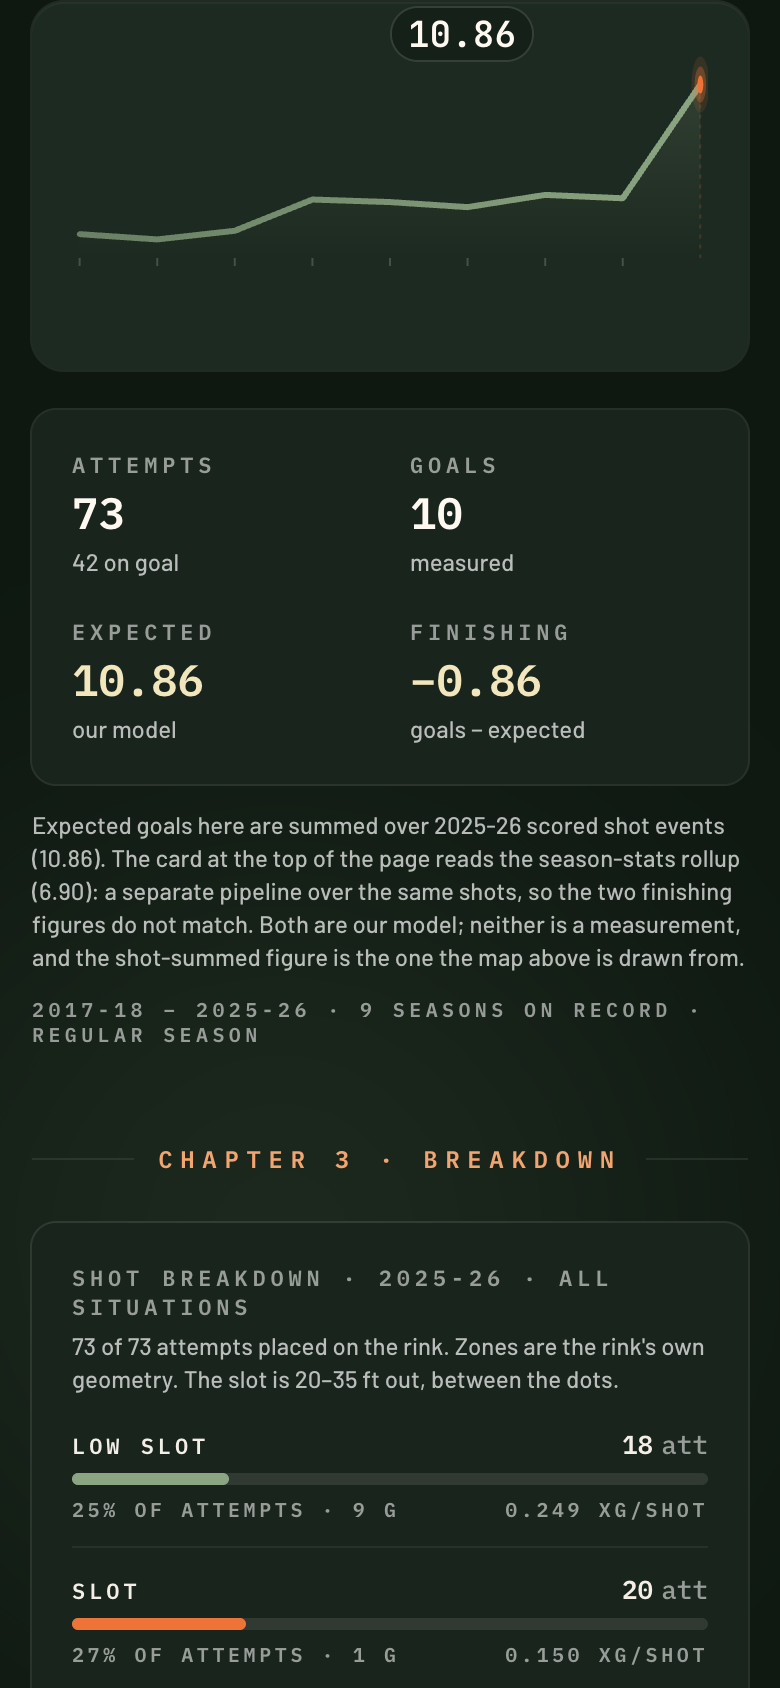
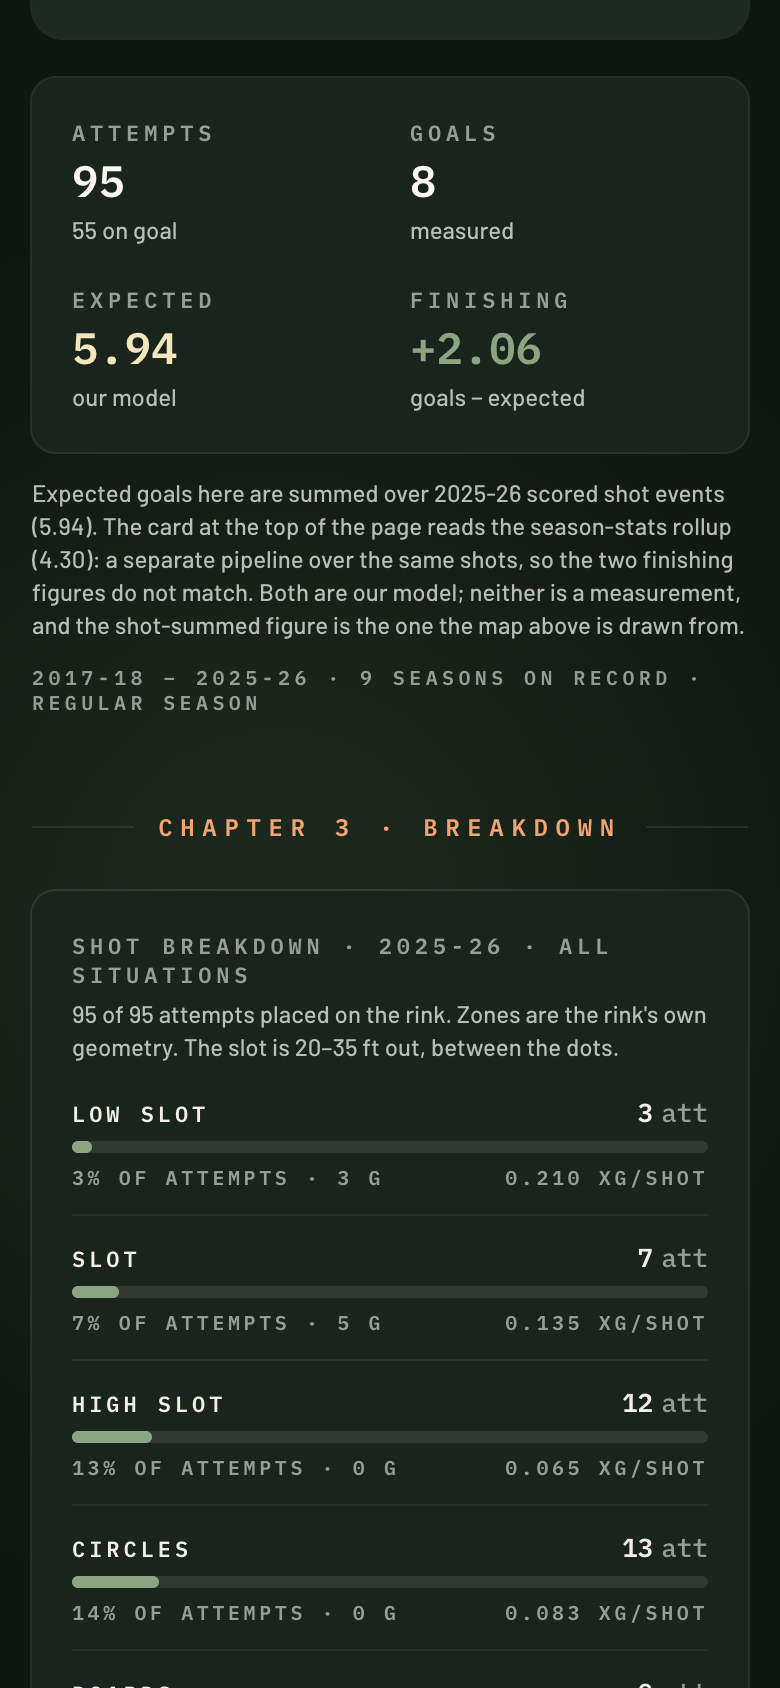
fix(web): isolate product landing from native builds

diff --git a/apps/web/src/components/citrus2/Homepage.tsx b/apps/web/src/components/citrus2/Homepage.tsx
@@ -5,6 +5,7 @@
  * Edit copy / structure here once and both routes update together.
  */
 
+import { useState } from 'react';
 import { Link } from 'react-router-dom';
 import { ArrowRight } from 'lucide-react';
 import Navbar from '@/components/Navbar';
@@ -49,35 +50,66 @@ import type { AccentName } from './tokens';
 // public NHL identity where available, generated demo values, and no league or
 // account data. They show the product in use, not a fabricated dashboard.
 function ProductVisual() {
+  const [screen, setScreen] = useState<'overview' | 'breakdown'>('overview');
+  const isOverview = screen === 'overview';
+  const activeScreen = isOverview
+    ? {
+        src: '/product-demo/player-dashboard-demo-390.png',
+        alt: 'Citrus player dashboard on mobile, showing a player decision view, expected-goals context, and shot profile.',
+        label: 'Player decision view',
+        detail: 'See the context behind a start-or-sit call.',
+      }
+    : {
+        src: '/product-demo/player-analysis-demo-390.png',
+        alt: 'Citrus player analysis on mobile, showing expected goals, finishing context, and a shot breakdown.',
+        label: 'Shot breakdown',
+        detail: 'Turn a box score into the shots that created it.',
+      };
+
   return (
-    <figure className="relative mx-auto h-[500px] w-full max-w-[520px] overflow-hidden rounded-[28px] border border-white/10 bg-[radial-gradient(circle_at_75%_12%,rgba(255,107,26,0.25),transparent_38%),linear-gradient(135deg,#101c14,#07110b)] shadow-[0_24px_60px_-20px_rgba(0,0,0,0.5)] sm:h-[540px]">
+    <figure className="relative mx-auto h-[470px] w-full max-w-[520px] overflow-hidden rounded-[28px] border border-white/10 bg-[radial-gradient(circle_at_75%_12%,rgba(255,107,26,0.25),transparent_38%),linear-gradient(135deg,#101c14,#07110b)] shadow-[0_24px_60px_-20px_rgba(0,0,0,0.5)] sm:h-[500px]">
       <div className="absolute left-5 top-5 z-10 rounded-md border border-white/10 bg-black/45 px-3 py-2 backdrop-blur-sm">
         <p className="font-plex text-[10px] font-semibold uppercase tracking-[0.16em] text-pressbox-orange-soft">Actual product screens</p>
         <p className="mt-0.5 font-barlow text-xs text-pressbox-text/70">Demo data · mobile layout</p>
       </div>
-      <div className="absolute -left-7 top-[84px] w-[255px] overflow-hidden rounded-[25px] border-[5px] border-[#07110b] bg-[#07110b] shadow-[0_24px_36px_-12px_rgba(0,0,0,0.8)] sm:left-7 sm:w-[280px]">
+      <div className="absolute left-1/2 top-[92px] w-[250px] -translate-x-1/2 overflow-hidden rounded-[25px] border-[5px] border-[#07110b] bg-[#07110b] shadow-[0_24px_36px_-12px_rgba(0,0,0,0.8)] transition-transform duration-300 motion-reduce:transition-none sm:top-[96px] sm:w-[276px]">
         <img
-          src="/product-demo/player-dashboard-demo-390.png"
-          alt="Citrus player dashboard on mobile, showing a player decision view, expected-goals context, and shot profile."
+          key={activeScreen.src}
+          src={activeScreen.src}
+          alt={activeScreen.alt}
           width="390"
           height="844"
-          className="block h-auto w-full"
+          className="block h-auto w-full animate-fade-in motion-reduce:animate-none"
           fetchPriority="high"
         />
       </div>
-      <div className="absolute -right-12 bottom-[-16px] w-[190px] overflow-hidden rounded-[22px] border-4 border-[#07110b] bg-[#07110b] shadow-[0_20px_36px_-12px_rgba(0,0,0,0.8)] sm:right-4 sm:w-[210px]">
-        <img
-          src="/product-demo/player-analysis-demo-390.png"
-          alt="Citrus player analysis on mobile, showing expected goals, finishing context, and a shot breakdown."
-          width="390"
-          height="844"
-          className="block h-auto w-full"
-          loading="lazy"
-        />
+      <div className="absolute bottom-4 left-1/2 z-10 w-[calc(100%-2.5rem)] -translate-x-1/2 rounded-xl border border-white/10 bg-[#0a150d]/90 p-2.5 backdrop-blur-sm sm:w-[calc(100%-3rem)]">
+        <div className="grid grid-cols-2 gap-1 rounded-lg bg-white/[0.06] p-1" role="tablist" aria-label="Explore Citrus player screens">
+          {([
+            ['overview', 'Player view'],
+            ['breakdown', 'Shot breakdown'],
+          ] as const).map(([value, label]) => (
+            <button
+              key={value}
+              type="button"
+              role="tab"
+              aria-selected={screen === value}
+              aria-controls="product-screen-preview"
+              onClick={() => setScreen(value)}
+              className={`rounded-md px-2 py-2 font-plex text-[10px] font-semibold uppercase tracking-[0.08em] transition-colors motion-reduce:transition-none ${
+                screen === value
+                  ? 'bg-pressbox-orange text-pressbox-orange-ink'
+                  : 'text-pressbox-text/65 hover:bg-white/[0.08] hover:text-pressbox-text'
+              }`}
+            >
+              {label}
+            </button>
+          ))}
+        </div>
+        <p id="product-screen-preview" className="mt-2 px-1 font-barlow text-xs text-pressbox-text/70">
+          <span className="font-semibold text-pressbox-text">{activeScreen.label}.</span> {activeScreen.detail}
+        </p>
       </div>
-      <figcaption className="absolute bottom-4 left-5 right-[126px] z-10 font-plex text-[10px] font-semibold uppercase tracking-[0.12em] text-pressbox-text/60 sm:right-[145px]">
-        Decision context, then the slate
-      </figcaption>
     </figure>
   );
 }
@@ -94,7 +126,7 @@ function getHeroSlides(): HeroSlide[] {
   return [
     {
       id: 'fantasy',
-      eyebrow: 'Season-long fantasy hockey · Free · No card required',
+      eyebrow: '',
       headline: { lead: 'Fantasy hockey', accent: 'for people who watch hockey.' },
       sub: 'Set up a season-long league with your friends, make lineup decisions with expected-goals context, and follow the scores as games unfold. There are no entry fees and no payouts. It is just hockey.',
       primary: { label: 'Create a league', to: '/create-league' },
@@ -305,7 +337,7 @@ export function Homepage() {
         />
         <div className="flex gap-4 overflow-x-auto pb-4 -mx-6 px-6 snap-x snap-mandatory">
           {GAME_MODES.map((g) => (
-            <GameModeCard key={g.label} {...g} />
+            <GameModeCard key={g.label} {...g} landingCta />
           ))}
         </div>
       </section>

diff --git a/apps/web/src/components/citrus2/RotatingHero.tsx b/apps/web/src/components/citrus2/RotatingHero.tsx
@@ -1,11 +1,10 @@
 import { useState, useEffect, type ReactNode } from 'react';
 import { Link } from 'react-router-dom';
 import { ArrowRight } from 'lucide-react';
-import { LivePulse } from './LivePulse';
 
 export interface HeroSlide {
   id: string;
-  eyebrow: string;
+  eyebrow?: string;
   /** Headline rendered as: lead + accent (orange) + optional tail */
   headline: { lead: string; accent: string; tail?: string };
   sub: string;
@@ -43,18 +42,19 @@ export function RotatingHero({
     <section
       onMouseEnter={() => setPaused(true)}
       onMouseLeave={() => setPaused(false)}
-      className="relative max-w-[1280px] mx-auto px-4 sm:px-6 pt-8 sm:pt-12 lg:pt-16 pb-12"
+      className="relative max-w-[1280px] mx-auto px-4 sm:px-6 pt-8 sm:pt-12 lg:pt-10 pb-8"
     >
-      <div className="grid grid-cols-1 lg:grid-cols-2 gap-8 sm:gap-12 lg:gap-16 items-center min-h-[400px] sm:min-h-[480px]">
+      <div className="grid grid-cols-1 lg:grid-cols-2 gap-8 sm:gap-12 lg:gap-16 items-center min-h-[400px] sm:min-h-[480px] lg:min-h-0">
         {/* LEFT — copy. key forces re-mount so animate-fade-in re-fires per slide */}
         <div key={`copy-${active}`} className="relative z-10 animate-fade-in">
-          <div className="inline-flex items-center gap-2 mb-5 sm:mb-7 px-3 py-1.5 rounded-md bg-pressbox-orange/15 ring-1 ring-pressbox-orange/30">
-            <LivePulse size="xs" />
-            <span className="font-plex font-semibold text-[11px] tracking-[0.16em] uppercase text-pressbox-orange-soft leading-none">
-              {slide.eyebrow}
-            </span>
-          </div>
-          <h1 className="font-condensed font-extrabold uppercase text-[3rem] sm:text-[4rem] md:text-[4.75rem] lg:text-[6rem] leading-[0.92] tracking-[-0.01em] text-pressbox-text mb-5 sm:mb-6">
+          {slide.eyebrow && (
+            <div className="inline-flex items-center gap-2 mb-5 sm:mb-7 px-3 py-1.5 rounded-md bg-pressbox-orange/15 ring-1 ring-pressbox-orange/30">
+              <span className="font-plex font-semibold text-[11px] tracking-[0.16em] uppercase text-pressbox-orange-soft leading-none">
+                {slide.eyebrow}
+              </span>
+            </div>
+          )}
+          <h1 className="font-condensed font-extrabold uppercase text-[3rem] sm:text-[4rem] md:text-[4.75rem] lg:text-[4.75rem] leading-[0.92] tracking-[-0.01em] text-pressbox-text mb-5 sm:mb-6">
             {slide.headline.lead}
             <br />
             <span className="font-condensed text-pressbox-orange">{slide.headline.accent}</span>

diff --git a/apps/web/src/components/citrus2/GameModeCard.tsx b/apps/web/src/components/citrus2/GameModeCard.tsx
@@ -21,6 +21,7 @@ export function GameModeCard({
   to,
   ctaLabel = 'Play Now',
   scene,
+  landingCta = false,
 }: {
   label: string;
   sub: string;
@@ -31,9 +32,16 @@ export function GameModeCard({
   ctaLabel?: string;
   /** Optional path to a hero scene image (under /public). Sleeper-style card. */
   scene?: string;
+  /** Website storefront only; native-accessible feature pages retain existing CTA markup. */
+  landingCta?: boolean;
 }) {
   const a = ACCENT_CLASSES[accent];
   const ctaClass = 'mt-auto w-full inline-flex items-center justify-center gap-1.5 bg-pressbox-orange text-pressbox-orange-ink px-4 h-11 rounded-md font-condensed font-bold uppercase tracking-[0.06em] text-[15px] hover:bg-pastel-orange-soft transition-all duration-200 active:scale-95 group/btn focus-visible:outline-none focus-visible:ring-2 focus-visible:ring-pastel-orange-soft focus-visible:ring-offset-2 focus-visible:ring-offset-pastel-surface';
+  const button = (
+    <button className="mt-auto w-full inline-flex items-center justify-center gap-1.5 bg-pressbox-orange text-pressbox-orange-ink px-4 h-11 rounded-md font-condensed font-bold uppercase tracking-[0.06em] text-[15px] hover:bg-pastel-orange-soft transition-all duration-200 active:scale-95 group/btn">
+      {ctaLabel} <ArrowRight className="w-3.5 h-3.5 group-hover/btn:translate-x-0.5 transition-transform" strokeWidth={2.5} />
+    </button>
+  );
 
   return (
     <div className="flex-shrink-0 w-[240px] sm:w-[260px] snap-start">
@@ -82,15 +90,15 @@ export function GameModeCard({
             <p className="font-barlow font-normal text-[14px] text-pressbox-text/70 leading-snug mb-4 flex-grow min-h-[80px] line-clamp-4">
               {sub}
             </p>
-            {to ? (
+            {landingCta && to ? (
               <Link to={to} className={ctaClass} aria-label={`${ctaLabel}: ${label}`}>
                 {ctaLabel} <ArrowRight className="w-3.5 h-3.5 group-hover/btn:translate-x-0.5 transition-transform" strokeWidth={2.5} />
               </Link>
-            ) : (
+            ) : landingCta ? (
               <span className={ctaClass} aria-hidden="true">
                 {ctaLabel} <ArrowRight className="w-3.5 h-3.5" strokeWidth={2.5} />
               </span>
-            )}
+            ) : to ? <Link to={to} className="contents">{button}</Link> : button}
           </div>
         </article>
       </GlowCard>

diff --git a/apps/web/src/pages/Index.tsx b/apps/web/src/pages/Index.tsx
@@ -1,6 +1,6 @@
 import { Capacitor } from '@capacitor/core';
+import { lazy, Suspense } from 'react';
 import { logger } from '@/utils/logger';
-import { Homepage } from '@/components/citrus2';
 import { useAuth } from '@/contexts/AuthContext';
 import { useLeague } from '@/contexts/LeagueContext';
 import { useIsMobile } from '@/hooks/useIsMobile';
@@ -10,6 +10,16 @@ import { Navigate, useLocation } from 'react-router-dom';
 import LoadingScreen from '@/components/LoadingScreen';
 import { isLeagueVisitFresh, markLeagueVisit } from '@/lib/leagueStickiness';
 import { leagueOpenDestination, getLeagueTypeFromSettings } from '@/utils/leagueTypeHelpers';
+
+// The storefront is a website-only surface. Keep its product captures and
+// marketing code out of a Capacitor build entirely, rather than merely
+// deciding not to render it after it has been bundled into the app.
+const WebHomepage = import.meta.env.VITE_NATIVE === '1'
+  ? null
+  : lazy(async () => {
+      const module = await import('@/components/citrus2/Homepage');
+      return { default: module.Homepage };
+    });
 
 /**
  * Production homepage. Renders the Citrus 2.0 Homepage composition (dark
@@ -104,7 +114,12 @@ const Index = () => {
   }
 
   try {
-    return <Homepage />;
+    if (!WebHomepage) return null;
+    return (
+      <Suspense fallback={<div style={{ minHeight: '100vh', background: '#07110b' }} aria-busy="true" />}>
+        <WebHomepage />
+      </Suspense>
+    );
   } catch (error) {
     logger.error('❌ Error in Index component:', error);
     return (

diff --git a/apps/web/src/pages/__tests__/Index.appOpenFlow.test.tsx b/apps/web/src/pages/__tests__/Index.appOpenFlow.test.tsx
@@ -27,7 +27,7 @@ vi.mock('@/contexts/LeagueContext', () => ({ useLeague: () => mockLeague() }));
 vi.mock('@/hooks/useIsMobile', () => ({ useIsMobile: () => true }));
 vi.mock('@/hooks/useSeasonStatus', () => ({ useSeasonStatus: () => ({ status: { isDormant: false, phase: 'regular' } }) }));
 vi.mock('@capacitor/core', () => ({ Capacitor: { isNativePlatform: () => false } }));
-vi.mock('@/components/citrus2', () => ({ Homepage: () => <div data-testid="storefront" /> }));
+vi.mock('@/components/citrus2/Homepage', () => ({ Homepage: () => <div data-testid="storefront" /> }));
 vi.mock('@/components/home/PressBoxHome', () => ({ PressBoxHome: () => <div data-testid="league-list" /> }));
 vi.mock('@/components/LoadingScreen', () => ({ default: () => <div data-testid="loading" /> }));
 vi.mock('@/utils/logger', () => ({ logger: { error: vi.fn() } }));
@@ -124,10 +124,10 @@ describe('the app open flow', () => {
     expect(screen.queryByTestId('storefront')).toBeNull();
   });
 
-  it('keeps the storefront for a signed-out visitor', () => {
+  it('keeps the storefront for a signed-out visitor', async () => {
     mockAuth.mockReturnValue({ user: null, loading: false });
     renderAt('/');
-    expect(screen.getByTestId('storefront')).toBeInTheDocument();
+    expect(await screen.findByTestId('storefront')).toBeInTheDocument();
   });
 
   it('one account\'s stamp does not pin another', () => {

diff --git a/apps/web/src/pages/PreviewClone.tsx b/apps/web/src/pages/PreviewClone.tsx
@@ -1,9 +1,14 @@
-// Imported from the module, not from the citrus2 barrel. Homepage.tsx itself
-// imports its siblings through the barrel, so barrel -> Homepage -> barrel is a
-// cycle, and this page is lazy-loaded into its own chunk: Rollup warned that
-// re-exporting Homepage through the cyclic barrel across chunks can break
-// execution order (CYCLIC_CROSS_CHUNK_REEXPORT) and asked for a direct import.
-import { Homepage } from '@/components/citrus2/Homepage';
+import { lazy, Suspense } from 'react';
+
+// This design-canon route is web-only. Its module can remain a development
+// route without causing the public storefront (and its product captures) to
+// be emitted into Capacitor's bundle.
+const WebHomepage = import.meta.env.VITE_NATIVE === '1'
+  ? null
+  : lazy(async () => {
+      const module = await import('@/components/citrus2/Homepage');
+      return { default: module.Homepage };
+    });
 
 /**
  * Design canon for the new dark Citrus 2.0 homepage. Same composition that
@@ -11,5 +16,10 @@ import { Homepage } from '@/components/citrus2/Homepage';
  * iterations can ship here first without touching prod traffic.
  */
 export default function PreviewClone() {
-  return <Homepage />;
+  if (!WebHomepage) return null;
+  return (
+    <Suspense fallback={null}>
+      <WebHomepage />
+    </Suspense>
+  );
 }

diff --git a/apps/web/src/components/StormyChatBubble.tsx b/apps/web/src/components/StormyChatBubble.tsx
@@ -15,6 +15,7 @@ import { useAuth } from '@/contexts/AuthContext';
 import { ChatBar } from '@/components/pressbox/ChatBar';
 import { useVisualViewport } from '@/hooks/useVisualViewport';
 import { stormySheetGeometry } from '@/components/stormy/sheetGeometry';
+import { Capacitor } from '@capacitor/core';
 
 // ── Helpers ──────────────────────────────────────────────────────
 
@@ -343,7 +344,7 @@ const StormyChatBubbleSession = () => {
    */
   if (!isOpen && isMobile) {
     // The Stormy page itself is on the list: a bar there opens a second chat over the first.
-    const navHidden = location.pathname === '/' ||
+    const navHidden = (!Capacitor.isNativePlatform() && location.pathname === '/') ||
       ['/auth', '/profile-setup', '/verify-email', '/reset-password', '/gm-office/stormy'].some((r) =>
         location.pathname.startsWith(r),
       );

diff --git a/apps/web/src/components/MobileBottomNav.tsx b/apps/web/src/components/MobileBottomNav.tsx
@@ -6,6 +6,7 @@ import { useLeague } from '@/contexts/LeagueContext';
 import { useAuth } from '@/contexts/AuthContext';
 import { isPoolLeague, getPoolRoute } from '@/utils/leagueTypeHelpers';
 import { PressBoxBottomNav } from '@/components/pressbox/PressBoxBottomNav';
+import { Capacitor } from '@capacitor/core';
 
 const MobileBottomNav = () => {
   const location = useLocation();
@@ -161,7 +162,9 @@ const MobileBottomNav = () => {
     '/auth', '/profile-setup', '/verify-email', '/reset-password',
     '/draft', '/draft-v2', '/draft-room',
   ];
-  if (location.pathname === '/' || hideOnRoutes.some(route => location.pathname.startsWith(route))) {
+  // `/` is the public storefront in a browser. In the Capacitor shell it is
+  // the signed-in Press Box home, where this navigation is essential.
+  if ((!Capacitor.isNativePlatform() && location.pathname === '/') || hideOnRoutes.some(route => location.pathname.startsWith(route))) {
     return null;
   }
 

diff --git a/apps/web/src/__tests__/siteClaimsGuard.test.ts b/apps/web/src/__tests__/siteClaimsGuard.test.ts
@@ -86,9 +86,10 @@ describe('homepage visual hierarchy', () => {
 
   it('gives each game-mode CTA a descriptive link rather than nesting a button in one', () => {
     const card = readFileSync(join(SRC, 'components/citrus2/GameModeCard.tsx'), 'utf8');
+    const homepage = readFileSync(join(SRC, 'components/citrus2/Homepage.tsx'), 'utf8');
 
-    expect(card).not.toContain('className="contents"');
-    expect(card).not.toMatch(/<button\b/);
+    expect(homepage).toContain('<GameModeCard key={g.label} {...g} landingCta />');
+    expect(card).toContain('landingCta && to');
     expect(card).toContain('aria-label={`${ctaLabel}: ${label}`}');
   });
 });

diff --git a/apps/web/src/__tests__/nativeBootGuard.test.ts b/apps/web/src/__tests__/nativeBootGuard.test.ts
@@ -72,6 +72,11 @@ describe('the homepage is the app home on a phone, the storefront everywhere els
   });
 
   it('still renders the storefront for the web at desktop width and for a signed-out visitor', () => {
-    expect(SOURCE).toMatch(/<Homepage \/>/);
+    expect(SOURCE).toMatch(/const WebHomepage = import\.meta\.env\.VITE_NATIVE === '1'/);
+    expect(SOURCE).toMatch(/<WebHomepage \/>/);
+  });
+
+  it('keeps the storefront chunk out of a native bundle', () => {
+    expect(SOURCE).toMatch(/VITE_NATIVE === '1'\s*\? null/);
   });
 });

diff --git a/apps/web/harness/dashboardFixtures.ts b/apps/web/harness/dashboardFixtures.ts
@@ -359,7 +359,7 @@ const CASES: Record<DashboardCase, CaseSpec> = {
   // A defenceman, so the zone breakdown is dominated by the point and the
   // Shot Breakdown tile has to read correctly when the slot row is thin.
   defence: {
-    player: harnessPlayer('Cale Makar'),
+    player: harnessPlayer('Zach Werenski'),
     build: (p) => {
       const shots = buildShots({
         attempts: p.shots ?? 0,
